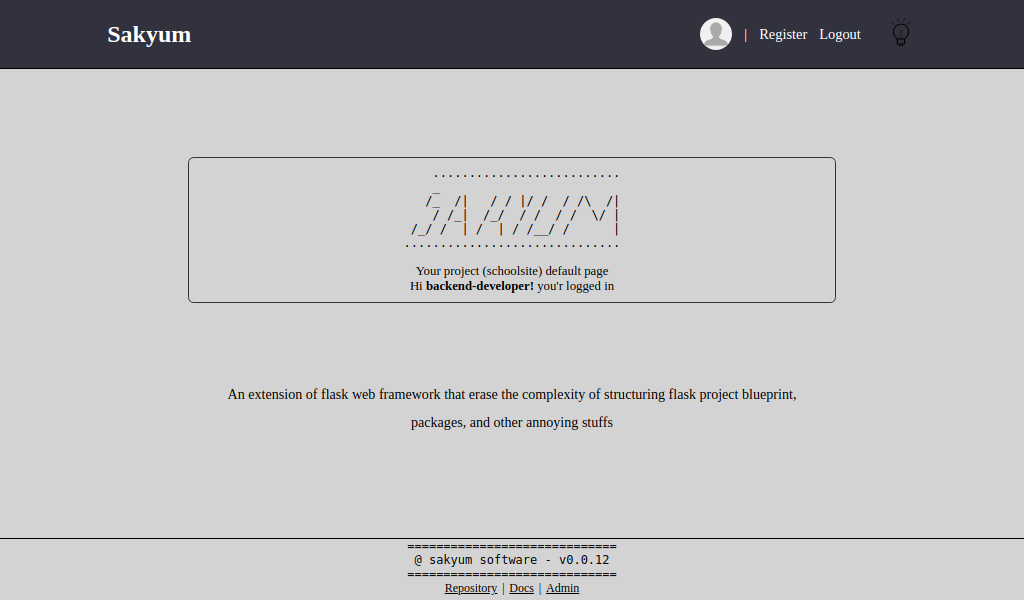
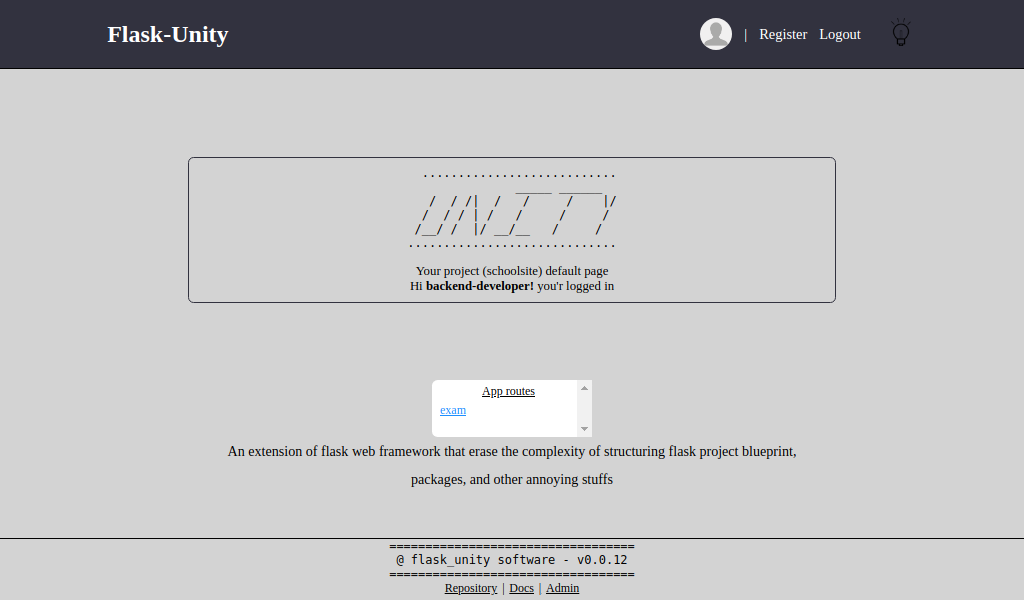
update screen shot image

diff --git a/flask_unity/templates/default_page/default.html b/flask_unity/templates/default_page/default.html
@@ -22,7 +22,7 @@
       <title>Flask-unity - {{context.head_title}}</title>
     {% endblock head_title %}
   {% else %}
-    <title>Flask-unity</title>
+    <title>Flask-Unity</title>
   {% endif %}
 </head>
 <body>
@@ -31,7 +31,7 @@
       <div class="header_col">
         <div class="head_left">
           <h1 class="logo">
-            <a href="{{ url_for('base.index') }}">Flask-unity</a>
+            <a href="{{ url_for('base.index') }}">Flask-Unity</a>
           </h1>
         </div>
 
